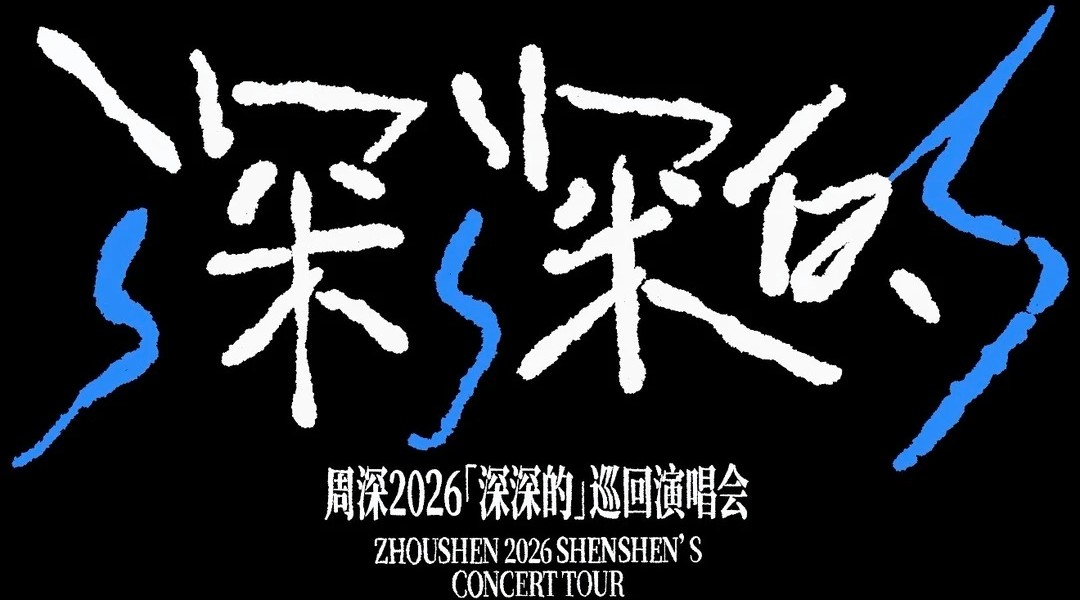
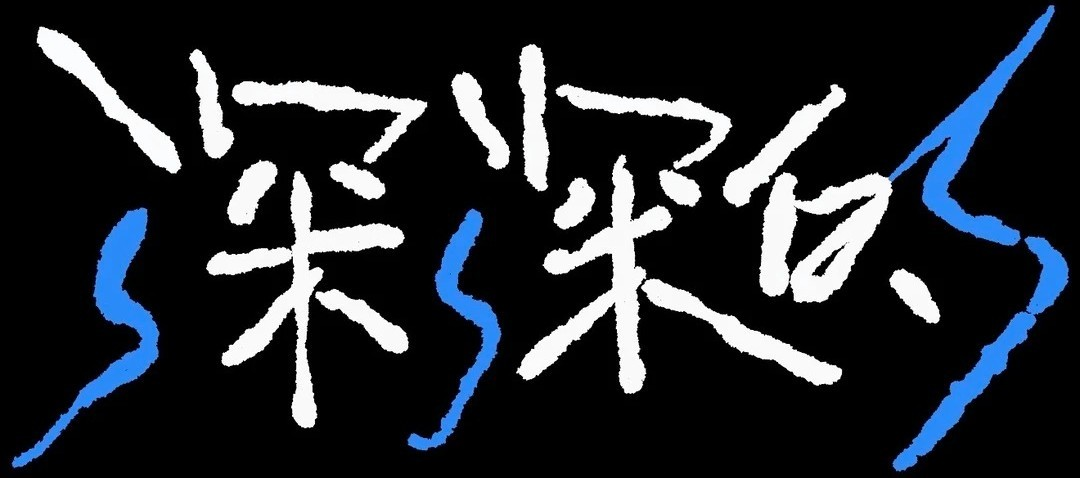
Replace Shenshen Moment preset artwork

Changed region(s): [[0.0, 0.0, 1.0, 1.0], [0.4583, 0.0586, 0.5194, 0.1172]]

diff --git a/DEVELOPMENT_LOG.md b/DEVELOPMENT_LOG.md
@@ -56,3 +56,12 @@ This file records repository-level operations so another model or developer can 
 - Ran the complete `html_app` suite: 50 tests passed, 0 failed and 4 hardware/external-image tests remained explicitly ignored.
 - Real-rendered the built-in preset against the Luna original as `target/shenshen-moment-preview-v2.png` and visually confirmed color, size, centering and metadata clearance.
[1 lines of base64/hex data omitted]
+
+## 2026-08-07 - Shenshen preset artwork replacement
+
+- Replaced `assets/moment_presets/shenshen-concert.jpg` with the user-provided title-only artwork (white `深深的` lettering and blue strokes on black), removing the previous concert-tour caption from this preset.
+- Kept the existing `shenshen-concert` preset identifier and UI selection so saved user settings remain compatible.
[1 lines of base64/hex data omitted]
+- Ran the watermark suite after replacement: 17 tests passed, 0 failed and the external-image QA test remained explicitly ignored in the regular suite.
+- Ran the external Luna original QA render with the replacement preset and generated `target/shenshen-titleonly-preview.png`; visually confirmed aspect-fit centering, preserved blue/white artwork and metadata clearance.
[1 lines of base64/hex data omitted]
